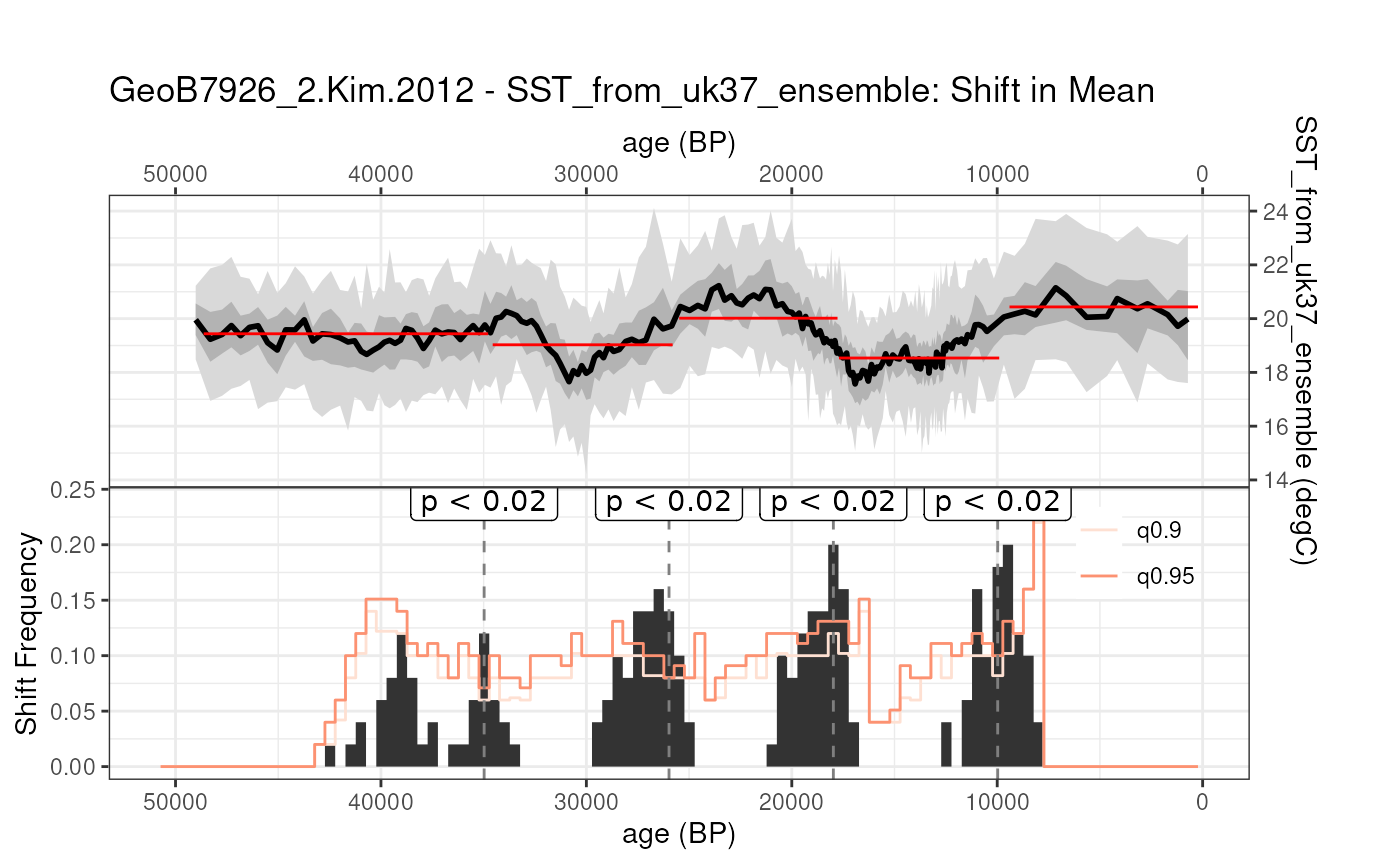
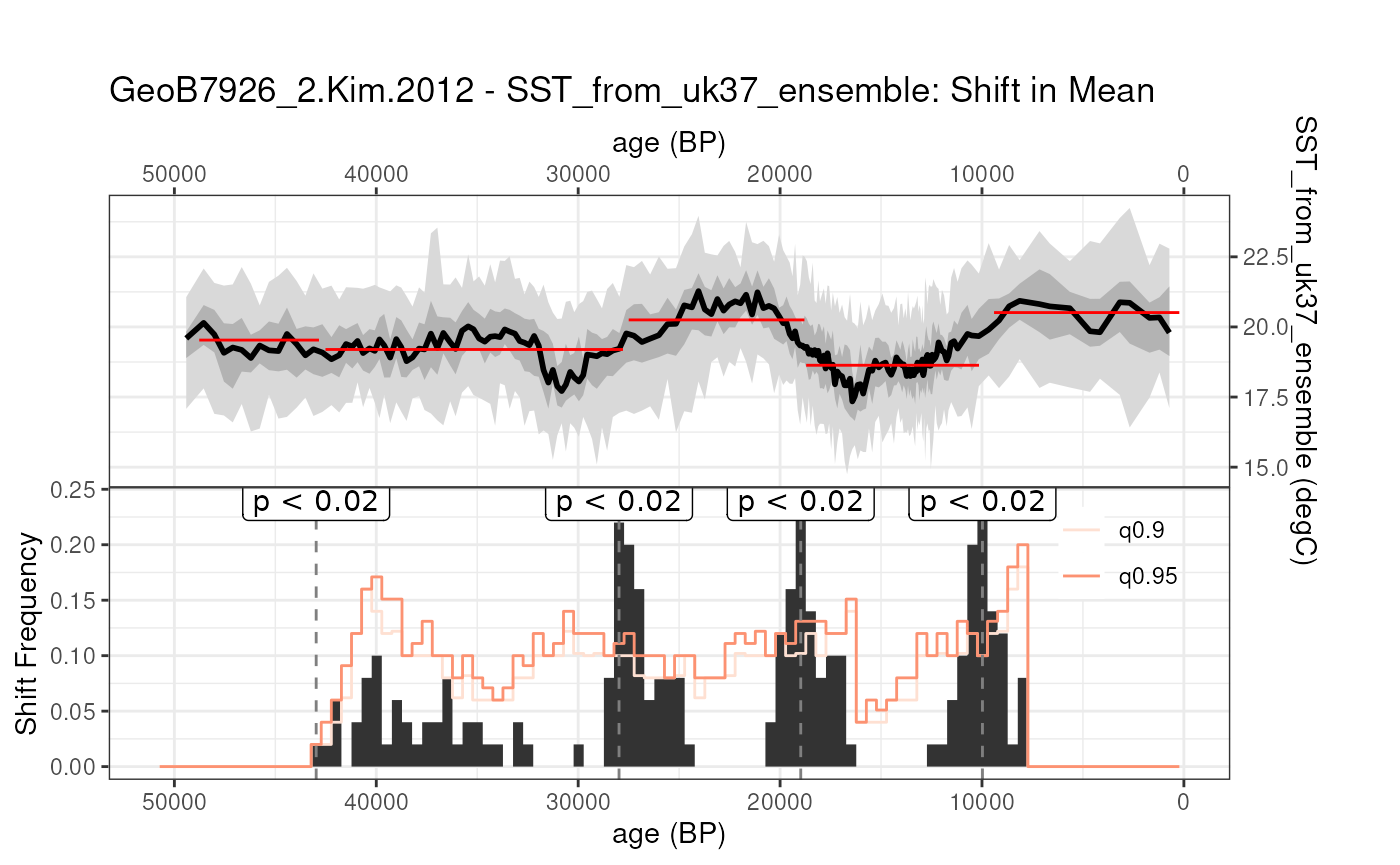
Deploying to gh-pages from @ LinkedEarth/actR@791725d0daeffa56ff7b8ffdc8638baf47e6fcff 🚀

diff --git a/articles/detectShift.html b/articles/detectShift.html
@@ -120,7 +120,7 @@ null.hypothesis.n]. * specifies a minimum segment length of 3000y</p>
 <span><span class="co">#&gt; Selected SST_from_uk37_ensemble</span></span>
 <span><span class="co">#&gt; <span style="color: #BB00BB;">timeUnits is at least partially absent in the input data</span></span></span>
 <span><span class="co"><span style="color: #BB00BB;">#&gt; </span><span style="color: #00BB00;">Testing null hypothesis with 50 simulations, each with 50 ensemble members. </span></span></span>
-<span><span class="co"><span style="color: #00BB00;">#&gt; </span><span style="color: #0000BB;">This will probably take about 1 minutes</span></span></span>
+<span><span class="co"><span style="color: #00BB00;">#&gt; </span><span style="color: #0000BB;">This will probably take about 2 minutes</span></span></span>
 <span><span class="co"><span style="color: #0000BB;">#&gt; </span></span></span></code></pre></div>
 <p>This lines generates a textual summary of the output:</p>
 <div class="sourceCode" id="cb3"><pre class="downlit sourceCode r">
@@ -133,9 +133,9 @@ null.hypothesis.n]. * specifies a minimum segment length of 3000y</p>
 <span><span class="co">#&gt;   time_start time_end empirical_pvalue</span></span>
 <span><span class="co">#&gt;        <span style="color: #949494; font-style: italic;">&lt;dbl&gt;</span>    <span style="color: #949494; font-style: italic;">&lt;dbl&gt;</span>            <span style="color: #949494; font-style: italic;">&lt;dbl&gt;</span></span></span>
 <span><span class="co">#&gt; <span style="color: #BCBCBC;">1</span>      <span style="text-decoration: underline;">9</span>727.   <span style="text-decoration: underline;">10</span>227.                0</span></span>
-<span><span class="co">#&gt; <span style="color: #BCBCBC;">2</span>     <span style="text-decoration: underline;">17</span>727.   <span style="text-decoration: underline;">18</span>227.                0</span></span>
-<span><span class="co">#&gt; <span style="color: #BCBCBC;">3</span>     <span style="text-decoration: underline;">25</span>727.   <span style="text-decoration: underline;">26</span>227.                0</span></span>
-<span><span class="co">#&gt; <span style="color: #BCBCBC;">4</span>     <span style="text-decoration: underline;">34</span>727.   <span style="text-decoration: underline;">35</span>227.                0</span></span>
+<span><span class="co">#&gt; <span style="color: #BCBCBC;">2</span>     <span style="text-decoration: underline;">27</span>727.   <span style="text-decoration: underline;">28</span>227.                0</span></span>
+<span><span class="co">#&gt; <span style="color: #BCBCBC;">3</span>     <span style="text-decoration: underline;">18</span>727.   <span style="text-decoration: underline;">19</span>227.                0</span></span>
+<span><span class="co">#&gt; <span style="color: #BCBCBC;">4</span>     <span style="text-decoration: underline;">42</span>727.   <span style="text-decoration: underline;">43</span>227.                0</span></span>
 <span><span class="co">#&gt; <span style="font-weight: bold;">Time uncertainty considered?</span> <span style="color: #00BB00;">TRUE</span> Time ensemble supplied (n = 100)</span></span>
 <span><span class="co">#&gt; <span style="font-weight: bold;">Paleo uncertainty considered?</span> <span style="color: #00BB00;">TRUE</span> Values ensemble supplied (n = 2500)</span></span>
 <span><span class="co">#&gt; Error propagation ensemble members = 50</span></span>

diff --git a/articles/detectExcursion.html b/articles/detectExcursion.html
@@ -208,7 +208,7 @@ significant.</p>
 <span><span class="co">#&gt; <span style="font-weight: bold;">NGRIP.NGRIP.2004 - d18O: Excursion test results</span></span></span>
 <span><span class="co"><span style="font-weight: bold;">#&gt; </span><span style="color: #555555;">Searched for </span><span style="color: #555555; font-weight: bold;">negative</span><span style="color: #555555;"> excursions in a </span><span style="color: #555555; font-weight: bold;">200</span><span style="color: #555555;"> year window around </span><span style="color: #555555; font-weight: bold;">8200</span><span style="color: #555555;"> BP, with reference windows of </span><span style="color: #555555; font-weight: bold;">400</span><span style="color: #555555;"> years on either side.</span></span></span>
 <span><span class="co"><span style="color: #555555;">#&gt; </span></span></span>
-<span><span class="co">#&gt; <span style="font-weight: bold;">Overall result: Empirical p-value = </span><span style="color: #00BB00; font-weight: bold;">0.02</span></span></span>
+<span><span class="co">#&gt; <span style="font-weight: bold;">Overall result: Empirical p-value = </span><span style="color: #00BB00; font-weight: bold;">0</span></span></span>
 <span><span class="co"><span style="font-weight: bold;">#&gt; </span>Time uncertainty considered? <span style="color: #BB0000;">FALSE</span></span></span>
 <span><span class="co">#&gt; Paleo uncertainty considered? <span style="color: #00BB00;">TRUE</span></span></span>
 <span><span class="co">#&gt; Error propagation ensemble members = 50</span></span>
